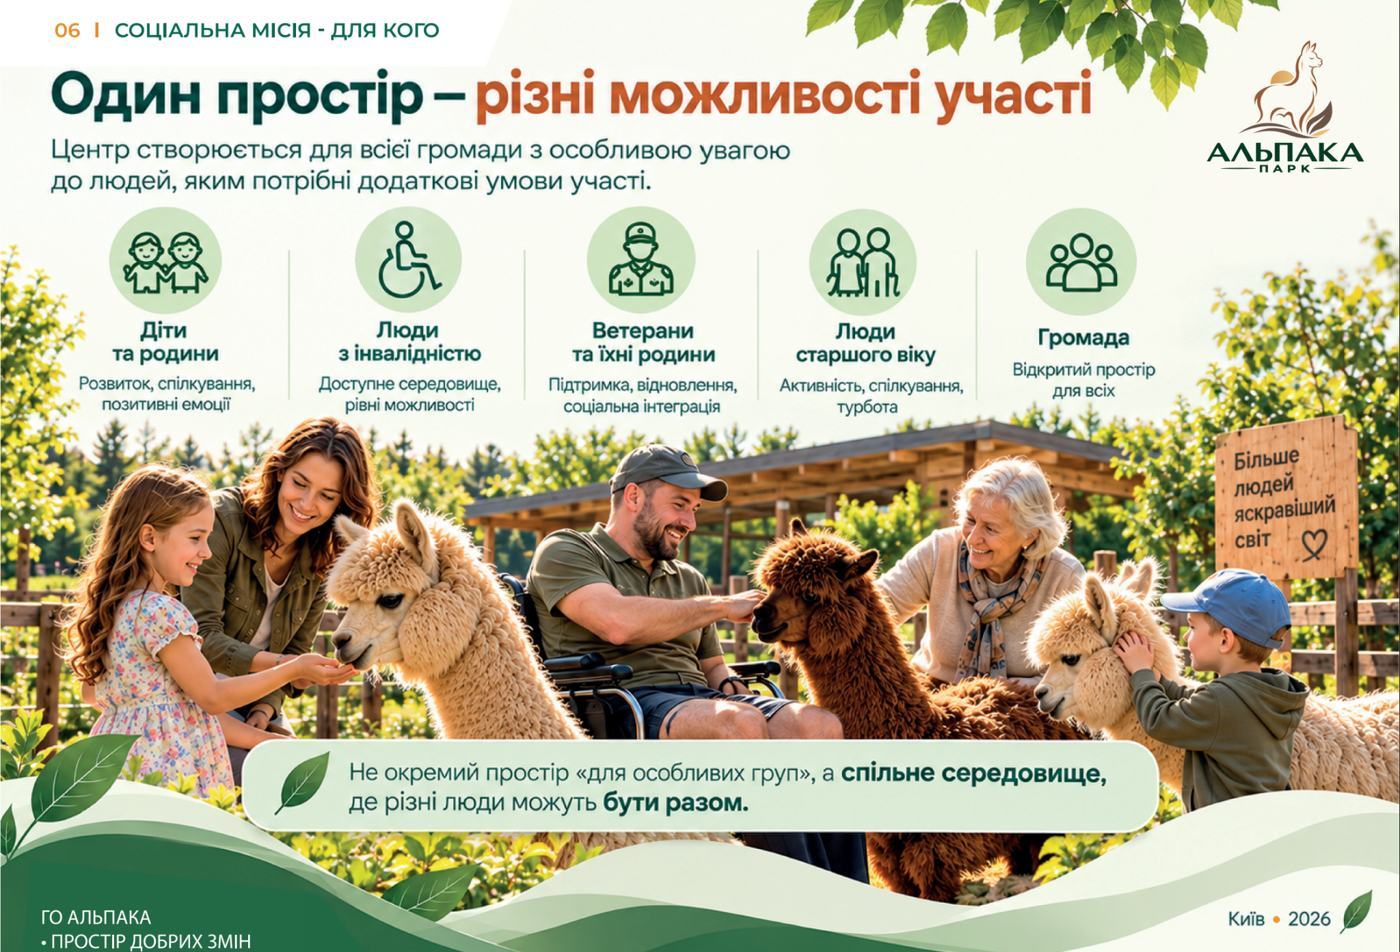
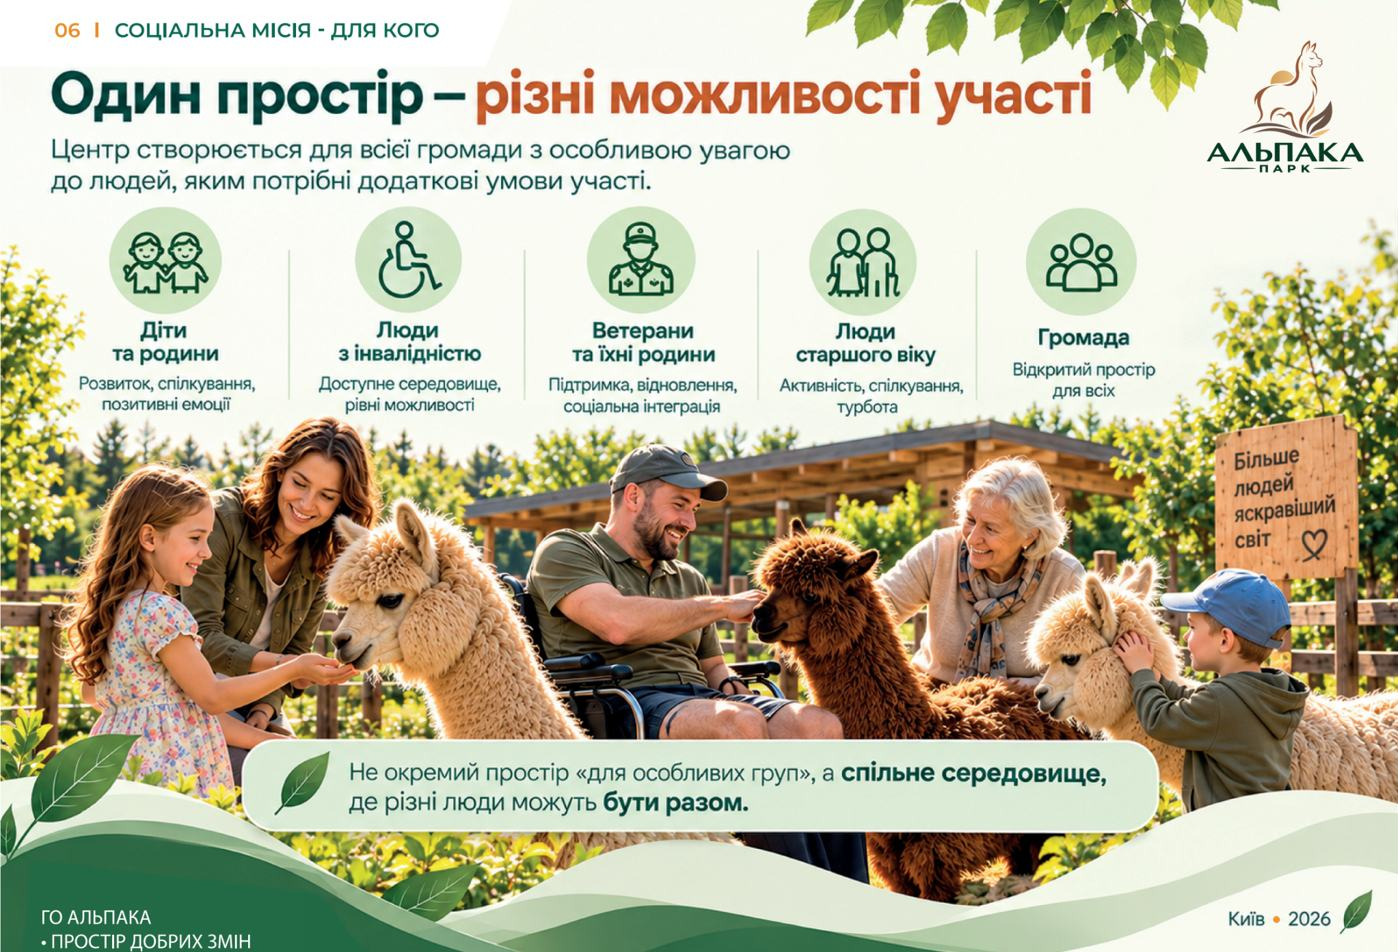
fix presentation photo + modify dimensions

diff --git a/index.html b/index.html
@@ -407,25 +407,25 @@
                 <div class="car-viewport">
                     <ul class="car-track" id="car-track" tabindex="0" aria-label="Слайди. Стрілки вліво/вправо — гортати, пробіл — пауза автогортання">
                     <li class="car-slide"><img width="1400" height="981" src="src/presentation/slide-01.jpg" alt="Слайд 1: Обкладинка" loading="eager" draggable="false"></li>
-                    <li class="car-slide"><img width="1400" height="991" src="src/presentation/slide-02.jpg" alt="Слайд 2: Проєкт в одному слайді" loading="eager" draggable="false"></li>
-                    <li class="car-slide"><img width="1400" height="979" src="src/presentation/slide-03.jpg" alt="Слайд 3: Чому зараз" loading="eager" draggable="false"></li>
+                    <li class="car-slide"><img width="1400" height="988" src="src/presentation/slide-02.jpg" alt="Слайд 2: Проєкт в одному слайді" loading="eager" draggable="false"></li>
+                    <li class="car-slide"><img width="1397" height="979" src="src/presentation/slide-03.jpg" alt="Слайд 3: Чому зараз" loading="eager" draggable="false"></li>
                     <li class="car-slide"><img width="1400" height="967" src="src/presentation/slide-04.jpg" alt="Слайд 4: Історія ініціативи" loading="lazy" draggable="false"></li>
                     <li class="car-slide"><img width="1400" height="959" src="src/presentation/slide-05.jpg" alt="Слайд 5: Чому альпаки" loading="lazy" draggable="false"></li>
-                    <li class="car-slide"><img width="1400" height="952" src="src/presentation/slide-06.jpg" alt="Слайд 6: Соціальна місія" loading="lazy" draggable="false"></li>
+                    <li class="car-slide"><img width="1398" height="952" src="src/presentation/slide-06.jpg" alt="Слайд 6: Соціальна місія" loading="lazy" draggable="false"></li>
                     <li class="car-slide"><img width="1400" height="826" src="src/presentation/slide-07.jpg" alt="Слайд 7: Формати взаємодії" loading="lazy" draggable="false"></li>
                     <li class="car-slide"><img width="1400" height="944" src="src/presentation/slide-08.jpg" alt="Слайд 8: Міський простір" loading="lazy" draggable="false"></li>
                     <li class="car-slide"><img width="1400" height="956" src="src/presentation/slide-09.jpg" alt="Слайд 9: Програмний підхід" loading="lazy" draggable="false"></li>
                     <li class="car-slide"><img width="1400" height="971" src="src/presentation/slide-10.jpg" alt="Слайд 10: Функціональні зони" loading="lazy" draggable="false"></li>
                     <li class="car-slide"><img width="1400" height="976" src="src/presentation/slide-11.jpg" alt="Слайд 11: Доступність" loading="lazy" draggable="false"></li>
                     <li class="car-slide"><img width="1400" height="973" src="src/presentation/slide-12.jpg" alt="Слайд 12: Безпека й добробут" loading="lazy" draggable="false"></li>
-                    <li class="car-slide"><img width="1400" height="974" src="src/presentation/slide-13.jpg" alt="Слайд 13: Міжнародний досвід" loading="lazy" draggable="false"></li>
+                    <li class="car-slide"><img width="1397" height="974" src="src/presentation/slide-13.jpg" alt="Слайд 13: Міжнародний досвід" loading="lazy" draggable="false"></li>
                     <li class="car-slide"><img width="1400" height="882" src="src/presentation/slide-14.jpg" alt="Слайд 14: Соціальний ефект" loading="lazy" draggable="false"></li>
                     <li class="car-slide"><img width="1400" height="978" src="src/presentation/slide-15.jpg" alt="Слайд 15: Фінансова стійкість" loading="lazy" draggable="false"></li>
                     <li class="car-slide"><img width="1400" height="974" src="src/presentation/slide-16.jpg" alt="Слайд 16: Команда" loading="lazy" draggable="false"></li>
                     <li class="car-slide"><img width="1400" height="987" src="src/presentation/slide-17.jpg" alt="Слайд 17: Що вже зроблено" loading="lazy" draggable="false"></li>
-                    <li class="car-slide"><img width="1400" height="988" src="src/presentation/slide-18.jpg" alt="Слайд 18: Дорожня карта" loading="lazy" draggable="false"></li>
+                    <li class="car-slide"><img width="1400" height="986" src="src/presentation/slide-18.jpg" alt="Слайд 18: Дорожня карта" loading="lazy" draggable="false"></li>
                     <li class="car-slide"><img width="1400" height="971" src="src/presentation/slide-19.jpg" alt="Слайд 19: Партнерство з містом" loading="lazy" draggable="false"></li>
-                    <li class="car-slide"><img width="1400" height="1002" src="src/presentation/slide-20.jpg" alt="Слайд 20: Простір добрих змін" loading="lazy" draggable="false"></li>
+                    <li class="car-slide"><img width="1392" height="991" src="src/presentation/slide-20.jpg" alt="Слайд 20: Простір добрих змін" loading="lazy" draggable="false"></li>
                     </ul>
                     <span class="car-status" id="car-status" role="status" aria-live="polite"></span>
                 </div>
